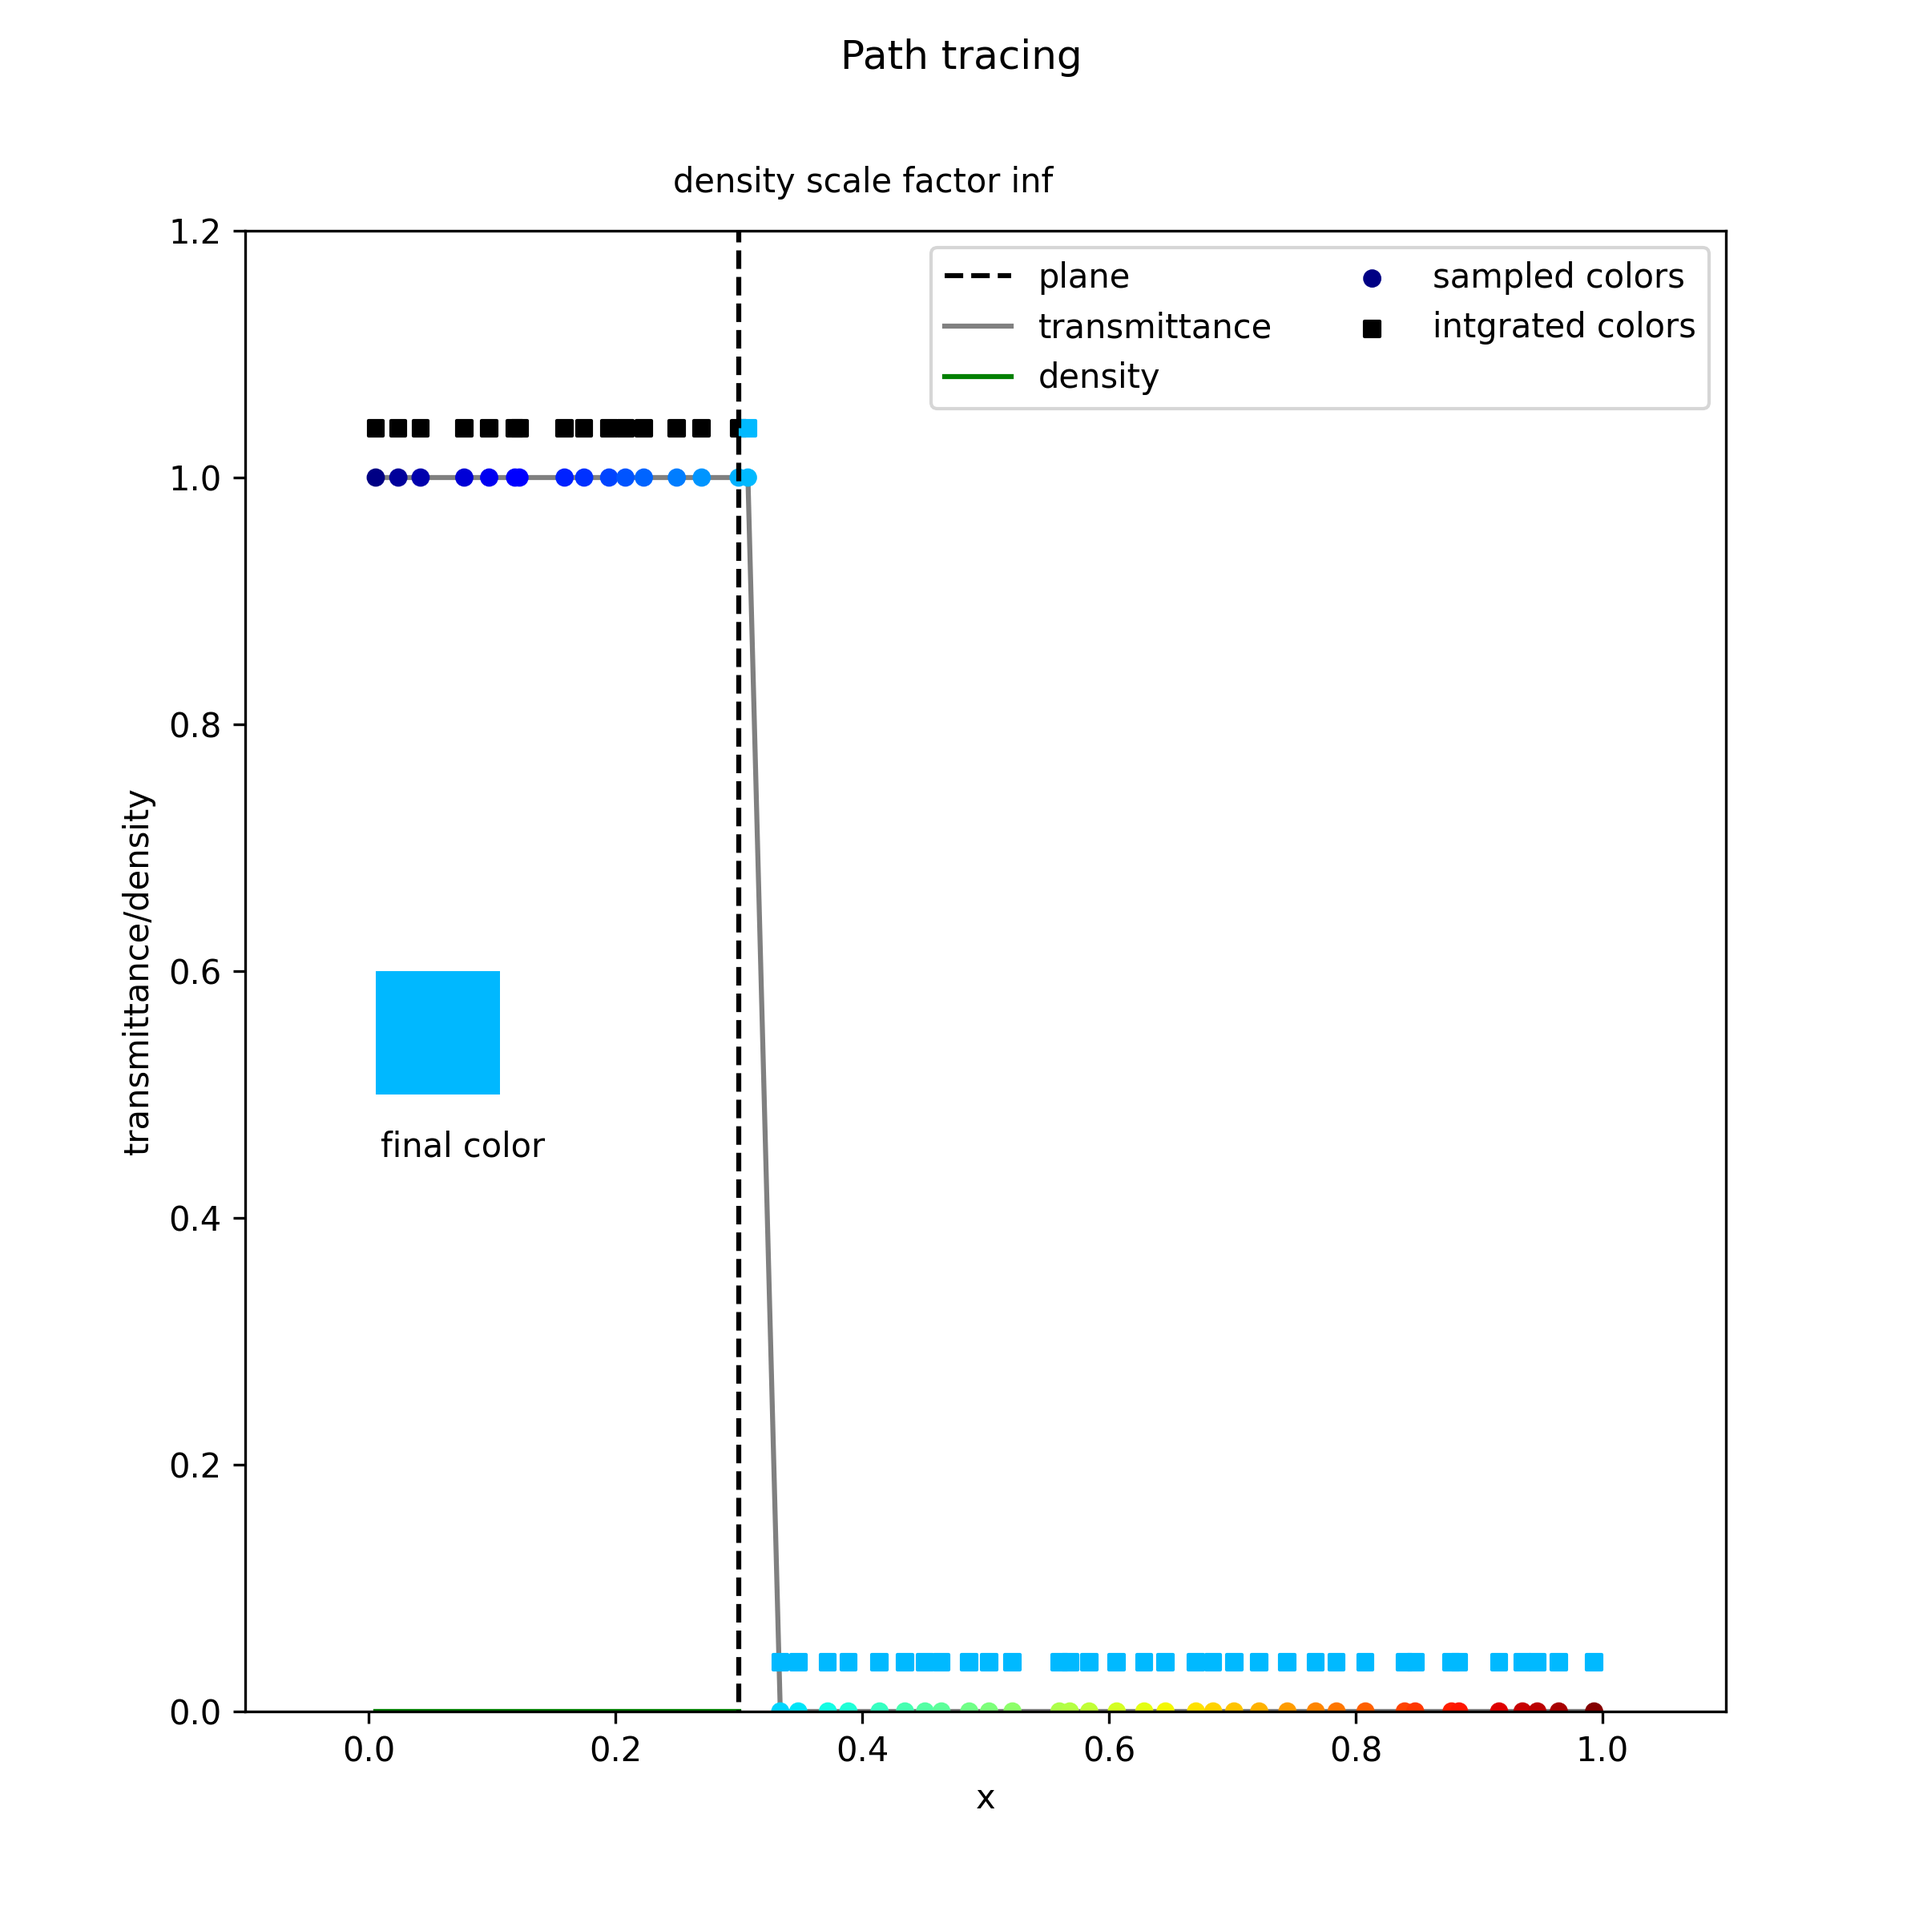
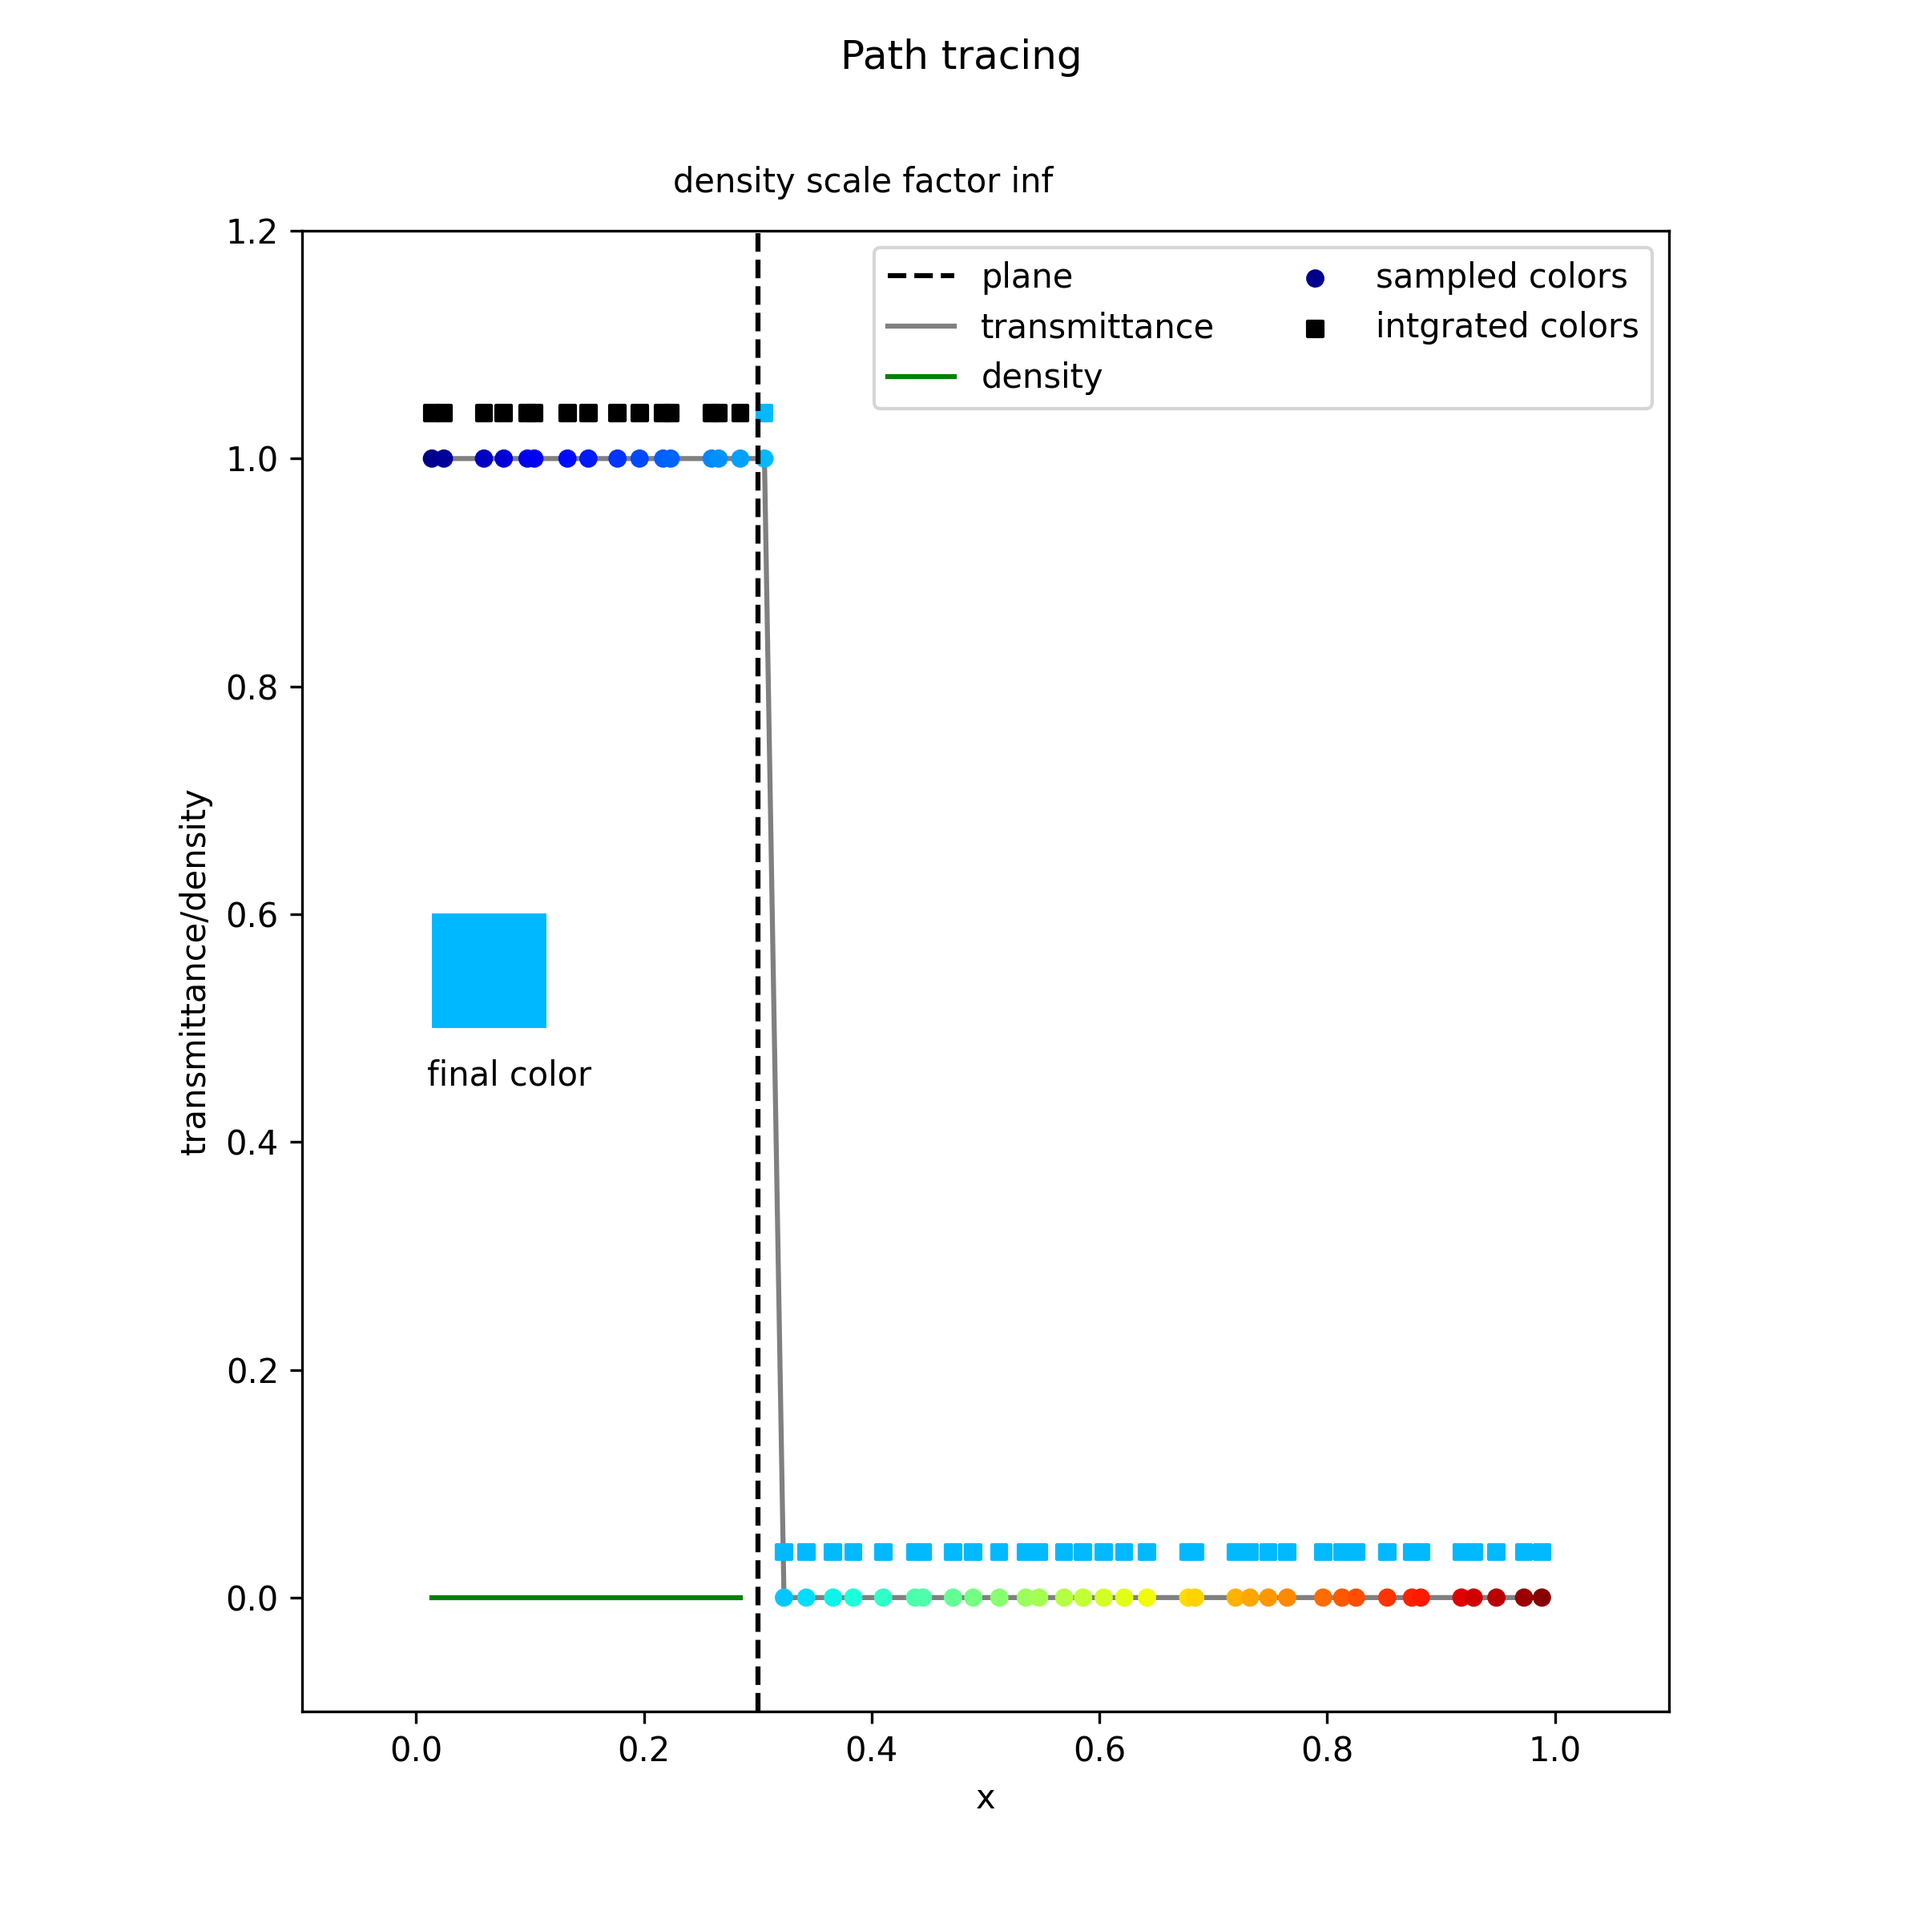
fixed alpha computation

diff --git a/torchngp/rendering.py b/torchngp/rendering.py
@@ -49,8 +49,7 @@ def render_volume_stratified(
         color, sigma, torch.cat((ray_ts, ray_tfar.unsqueeze(0)), 0)
     )
 
-    # TODO: the following is not quite correct, should be 1.0 - T(i)*alpha(i)
-    final_alpha = 1.0 - integ_transm[-1]
+    final_alpha = 1.0 - integ_transm[-1] * sample_alpha[-1]
 
     out_color = color.new_zeros(batch_shape + color.shape[-1:])
     out_alpha = sigma.new_zeros(batch_shape + (1,))

diff --git a/scripts/visualize_path_tracing.py b/scripts/visualize_path_tracing.py
@@ -71,7 +71,7 @@ def plot_density_scale(ds, show=True):
     ax.set_ylabel("transmittance/density")
     # ax.set_aspect("equal")
     plt.xlim(-0.1, 1.1)
-    plt.ylim(0.0, 1.2)
+    plt.ylim(-0.1, 1.2)
     plt.suptitle("Path tracing")
 
     plt.legend(loc="upper right", ncols=2)
